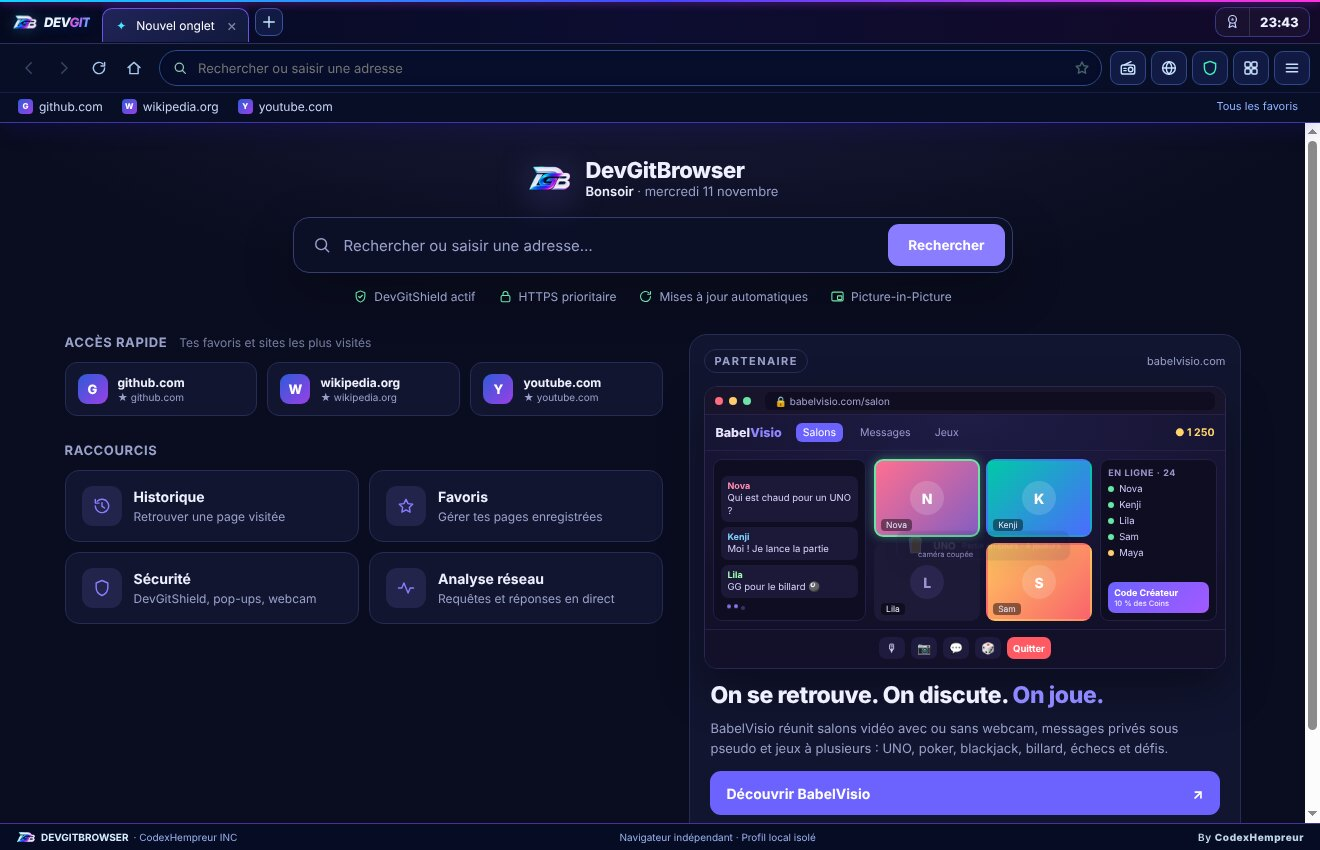
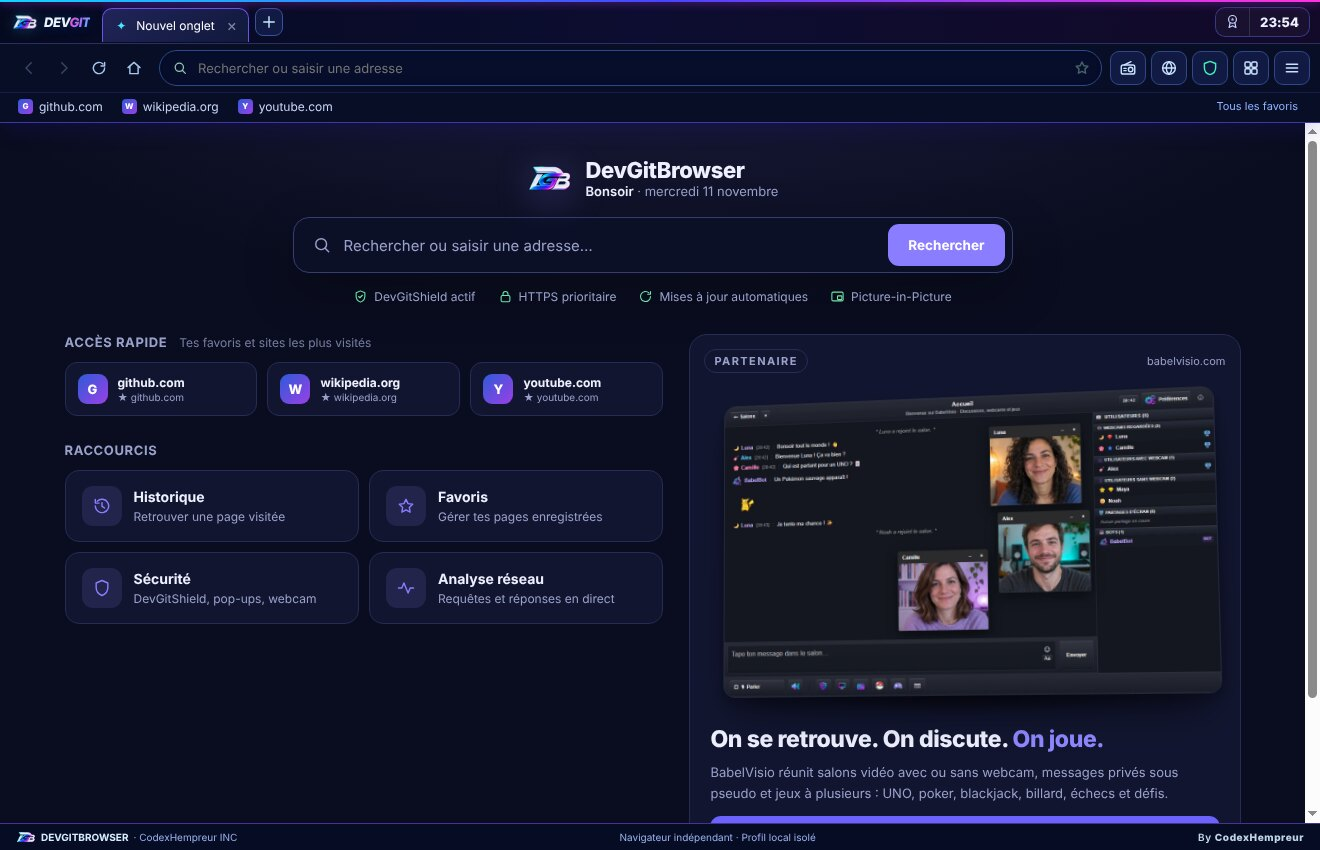
Accueil : capture d'un salon BabelVisio inclinée avec ombre portée
Remplace la maquette CSS par l'image fournie (assets/babelvisio-salon.webp, 76 Ko).

Claude-Session: https://claude.ai/code/session_014xZPsXwDBvUa5jMB2wqmZ4

Changed region(s): [[0.528, 0.4588, 0.9318, 0.9788], [0.9939, 0.7953, 1.0, 0.8565]]

diff --git a/ui/home.css b/ui/home.css
@@ -66,56 +66,20 @@
 .hp-cta{display:flex;justify-content:space-between;align-items:center;width:100%;height:44px;padding:0 16px;border:0;border-radius:11px;background:#6c63ff;color:#fff;font-weight:700;font-size:14px;transition:filter .15s}
 .hp-cta:hover{filter:brightness(1.1)}
 
-/* Maquette animée de l'interface BabelVisio (dessin CSS, aucune vraie personne) */
-.bv-mock{cursor:pointer;border-radius:13px;overflow:hidden;border:1px solid #2b2752;background:#0f0d1f;box-shadow:0 20px 44px rgba(0,0,0,.35);font-family:Inter,'Segoe UI',Arial,sans-serif;color:#e7e4ff;user-select:none}
-.bv-bar{display:flex;align-items:center;gap:6px;height:28px;padding:0 10px;background:#17142c;border-bottom:1px solid #26224a}
-.bv-bar>i{width:8px;height:8px;border-radius:50%;background:#3a3566}.bv-bar>i:nth-child(1){background:#ff6b81}.bv-bar>i:nth-child(2){background:#ffcb6b}.bv-bar>i:nth-child(3){background:#6be3a4}
-.bv-url{margin-left:8px;flex:1;font-size:10px;color:#a9a3d6;background:#0f0d1f;border-radius:6px;padding:3px 9px}
-.bv-app{background:radial-gradient(400px 200px at 50% 0,#6c63ff22,transparent),#13112a}
-.bv-top{display:flex;align-items:center;gap:10px;padding:8px 10px;border-bottom:1px solid #24204a;font-size:10.5px}
-.bv-logo{font-size:12.5px;font-weight:800;margin-right:4px}.bv-logo span{color:#8f87ff}
-.bv-nav{color:#9c96cc;padding:3px 7px;border-radius:6px}.bv-nav.on{background:#6c63ff;color:#fff}
-.bv-coins{margin-left:auto;color:#ffd36b;font-weight:700}
-.bv-body{display:grid;grid-template-columns:1.05fr 1.5fr .8fr;gap:8px;padding:8px;height:178px}
-.bv-chat{display:flex;flex-direction:column;justify-content:flex-end;gap:5px;padding:7px;border-radius:9px;background:#0f0d22;border:1px solid #241f48;overflow:hidden}
-.bv-msg{margin:0;font-size:9.5px;line-height:1.35;color:#d8d4ff;background:#1b1838;border-radius:7px;padding:4px 6px;opacity:0;transform:translateY(6px);animation:bvmsg 12s infinite}
-.bv-msg b{display:block;font-size:9px}.c1{color:#ff8fb3}.c2{color:#7fd3ff}.c3{color:#9dffb0}.c4{color:#ffd36b}
-.bv-msg.m1{animation-delay:0s}.bv-msg.m2{animation-delay:1.2s}.bv-msg.m3{animation-delay:2.6s}.bv-msg.m4{animation-delay:4s}
-@keyframes bvmsg{0%{opacity:0;transform:translateY(6px)}4%,88%{opacity:1;transform:none}96%,100%{opacity:0;transform:none}}
-.bv-typing{margin:0;display:flex;gap:3px;padding:3px 6px}.bv-typing i{width:4px;height:4px;border-radius:50%;background:#8f87ff;animation:bvdot 1.2s infinite}
-.bv-typing i:nth-child(2){animation-delay:.2s}.bv-typing i:nth-child(3){animation-delay:.4s}
-@keyframes bvdot{0%,60%,100%{opacity:.3;transform:none}30%{opacity:1;transform:translateY(-2px)}}
-.bv-stage{position:relative;display:grid;grid-template-columns:1fr 1fr;grid-template-rows:1fr 1fr;gap:6px}
-.bv-cam{position:relative;border-radius:9px;display:grid;place-items:center;overflow:hidden;border:2px solid transparent}
-.bv-cam span{width:34px;height:34px;border-radius:50%;display:grid;place-items:center;font-weight:800;font-size:14px;color:#fff;background:rgba(255,255,255,.16)}
-.bv-cam small{position:absolute;left:5px;bottom:4px;font-size:8.5px;background:rgba(0,0,0,.45);padding:1px 5px;border-radius:4px}
-.bv-cam.k1{background:linear-gradient(135deg,#ff6f91,#845ec2)}.bv-cam.k2{background:linear-gradient(135deg,#00c9a7,#4b6cff)}
-.bv-cam.k3{background:#1d1a37}.bv-cam.k4{background:linear-gradient(135deg,#ffc75f,#f9636b)}
-.bv-cam.off span{background:#2a2650;color:#9c96cc}
-.bv-cam.off:after{content:'caméra coupée';position:absolute;top:5px;right:5px;font-size:7.5px;color:#9c96cc}
-.bv-cam.k1{animation:bvtalk 6s infinite}.bv-cam.k2{animation:bvtalk 6s 2s infinite}.bv-cam.k4{animation:bvtalk 6s 4s infinite}
-@keyframes bvtalk{0%,30%{border-color:#6be3a4;box-shadow:0 0 12px #6be3a466}34%,100%{border-color:transparent;box-shadow:none}}
-.bv-game{position:absolute;left:50%;top:50%;transform:translate(-50%,-50%);display:flex;align-items:center;gap:7px;padding:5px 9px 5px 6px;border-radius:9px;
-  background:#1b1838f2;border:1px solid #3b3570;box-shadow:0 8px 20px rgba(0,0,0,.4);white-space:nowrap;animation:bvgame 9s infinite}
-.bv-game b{font-size:10.5px}.bv-game small{font-size:8.5px;color:#a9a3d6}
-@keyframes bvgame{0%,8%{opacity:0;transform:translate(-50%,-30%) scale(.92)}14%,80%{opacity:1;transform:translate(-50%,-50%)}88%,100%{opacity:0;transform:translate(-50%,-30%) scale(.92)}}
-.bv-cards{position:relative;width:26px;height:20px}
-.bv-cards i{position:absolute;left:8px;top:1px;width:11px;height:17px;border-radius:2px;border:1px solid #fff;transform-origin:50% 100%;animation:bvfan 9s infinite}
-.bv-cards .r{background:#ff5964;--r:-24deg}.bv-cards .b{background:#3f8cff;--r:-8deg}.bv-cards .g{background:#3fcf7a;--r:8deg}.bv-cards .y{background:#ffcd3c;--r:24deg}
-@keyframes bvfan{0%,14%{transform:rotate(0)}22%,80%{transform:rotate(var(--r))}90%,100%{transform:rotate(0)}}
-.bv-users{display:flex;flex-direction:column;gap:5px;padding:7px;border-radius:9px;background:#0f0d22;border:1px solid #241f48;font-size:9.5px;color:#cfcaf8;overflow:hidden}
-.bv-users>b{font-size:9px;color:#9c96cc;text-transform:uppercase;letter-spacing:.6px}
-.bv-users span{display:flex;align-items:center;gap:5px}.bv-users span i{width:6px;height:6px;border-radius:50%;background:#6be3a4}.bv-users span i.away{background:#ffcb6b}
-.bv-creator{margin-top:auto;padding:5px 6px;border-radius:7px;background:linear-gradient(135deg,#6c63ff,#a259ff);color:#fff;font-weight:700;font-size:9px;line-height:1.25}
-.bv-creator small{display:block;font-weight:500;opacity:.85}
-.bv-tools{display:flex;justify-content:center;gap:6px;padding:7px 8px 9px;border-top:1px solid #24204a}
-.bv-tools span{min-width:26px;height:22px;display:grid;place-items:center;padding:0 6px;border-radius:7px;background:#1f1b3f;font-size:11px}
-.bv-tools .bv-leave{background:#ff5964;color:#fff;font-size:9.5px;font-weight:700}
-@media (prefers-reduced-motion:reduce){.bv-msg,.bv-game{animation:none;opacity:1;transform:none}.bv-game{transform:translate(-50%,-50%)}.bv-cam,.bv-cards i,.bv-typing i{animation:none}}
+/* Capture d'un salon BabelVisio : légèrement inclinée, ombre portée en dessous */
+.bv-shot{position:relative;margin:8px 10px 18px;perspective:1400px;cursor:pointer}
+.bv-shot:after{content:'';position:absolute;left:8%;right:8%;bottom:-16px;height:26px;border-radius:50%;
+  background:radial-gradient(closest-side,rgba(0,0,0,.55),transparent);filter:blur(6px);z-index:0;transition:transform .35s ease,opacity .35s ease}
+.bv-shot img{position:relative;z-index:1;display:block;width:100%;height:auto;border-radius:12px;border:1px solid rgba(255,255,255,.08);
+  transform:rotateY(-9deg) rotateX(5deg) rotateZ(-1.5deg);transform-origin:50% 60%;
+  box-shadow:0 22px 40px -14px rgba(0,0,0,.6),0 6px 14px rgba(0,0,0,.25);transition:transform .35s ease,box-shadow .35s ease;user-select:none}
+.bv-shot:hover img{transform:rotateY(-4deg) rotateX(2deg) rotateZ(-.5deg) translateY(-3px);box-shadow:0 30px 50px -16px rgba(0,0,0,.65),0 8px 18px rgba(0,0,0,.25)}
+.bv-shot:hover:after{transform:scaleX(.94);opacity:.8}
+@media (prefers-reduced-motion:reduce){.bv-shot img,.bv-shot:after{transition:none}}
 
 /* ---- Écrans plus étroits */
 @media (max-width:1080px){.hp-grid{grid-template-columns:1fr}.hp-sponsor{max-width:640px;width:100%;margin:0 auto}}
-@media (max-width:640px){.hp-wrap{padding:26px 16px 32px}.hp-shortcuts{grid-template-columns:1fr}.hp-trust{gap:6px 14px}.bv-body{grid-template-columns:1fr 1.4fr}.bv-users{display:none}}
+@media (max-width:640px){.hp-wrap{padding:26px 16px 32px}.hp-shortcuts{grid-template-columns:1fr}.hp-trust{gap:6px 14px}}
 
 /* Bouton des succès (v1.18) : suit le thème comme l'horloge */
 :root[data-theme]:not([data-theme="neon"]) body:not(.x-mode) .status-cluster .trophy-btn{background:var(--t-surface)!important;border-color:var(--t-line)!important;color:var(--t-txt)!important}

diff --git a/ui/index.html b/ui/index.html
@@ -79,33 +79,7 @@
       </div>
       <aside class="hp-sponsor" aria-label="Partenaire : BabelVisio">
         <div class="hp-sponsor-tag"><span>Partenaire</span><em>babelvisio.com</em></div>
-        <div class="bv-mock" aria-hidden="true" data-no-i18n>
-          <div class="bv-bar"><i></i><i></i><i></i><span class="bv-url">🔒 babelvisio.com/salon</span></div>
-          <div class="bv-app">
-            <div class="bv-top"><b class="bv-logo">Babel<span>Visio</span></b><span class="bv-nav on">Salons</span><span class="bv-nav">Messages</span><span class="bv-nav">Jeux</span><span class="bv-coins">● 1 250</span></div>
-            <div class="bv-body">
-              <div class="bv-chat">
-                <p class="bv-msg m1"><b class="c1">Nova</b> Qui est chaud pour un UNO ?</p>
-                <p class="bv-msg m2"><b class="c2">Kenji</b> Moi ! Je lance la partie</p>
-                <p class="bv-msg m3"><b class="c3">Lila</b> GG pour le billard 🎱</p>
-                <p class="bv-typing"><i></i><i></i><i></i></p>
-              </div>
-              <div class="bv-stage">
-                <div class="bv-cam k1"><span>N</span><small>Nova</small></div>
-                <div class="bv-cam k2"><span>K</span><small>Kenji</small></div>
-                <div class="bv-cam k3 off"><span>L</span><small>Lila</small></div>
-                <div class="bv-cam k4"><span>S</span><small>Sam</small></div>
-                <div class="bv-game"><div class="bv-cards"><i class="r"></i><i class="b"></i><i class="g"></i><i class="y"></i></div><b>UNO</b><small>Partie en cours · 4 joueurs</small></div>
-              </div>
-              <div class="bv-users">
-                <b>En ligne · 24</b>
-                <span><i></i>Nova</span><span><i></i>Kenji</span><span><i></i>Lila</span><span><i></i>Sam</span><span><i class="away"></i>Maya</span>
-                <div class="bv-creator">Code Créateur<small>10 % des Coins</small></div>
-              </div>
-            </div>
-            <div class="bv-tools"><span>🎙</span><span>📷</span><span>💬</span><span>🎲</span><span class="bv-leave">Quitter</span></div>
-          </div>
-        </div>
+        <div class="bv-shot"><img src="../assets/babelvisio-salon.webp" alt="Aperçu d’un salon BabelVisio : discussion, webcams et liste des utilisateurs" width="1200" height="720" draggable="false"></div>
         <div class="hp-sponsor-text">
           <h2>On se retrouve. On discute. <span>On joue.</span></h2>
           <p>BabelVisio réunit salons vidéo avec ou sans webcam, messages privés sous pseudo et jeux à plusieurs : UNO, poker, blackjack, billard, échecs et défis.</p>

diff --git a/tests/v118.test.js b/tests/v118.test.js
@@ -138,9 +138,9 @@ test('interface 1.18 : accueil, bouton des succès, plus de prompt()',()=>{
   assert.match(html,/<div class="status-cluster">\s*<button id="trophy-btn"[^>]*><svg class="trophy-ico"/,'icône neutre collée à l’heure');
   assert.ok(!html.includes('🏆</span>'));
   for(const id of ['start-search','start-address','open-babel','home-sites','home-sites-section','card-history','card-bookmarks','card-security','card-network','hp-greet'])assert.ok(html.includes(`id="${id}"`),id);
-  assert.match(html,/href="home\.css"/);assert.match(html,/class="bv-mock" aria-hidden="true" data-no-i18n/);
-  assert.ok(!/<img[^>]+bv-/.test(html),'maquette dessinée en CSS, sans photo');
-  assert.match(css,/prefers-reduced-motion:reduce\)\{\.bv-msg/);
+  assert.match(html,/href="home\.css"/);assert.match(html,/<div class="bv-shot"><img src="\.\.\/assets\/babelvisio-salon\.webp" alt="[^"]+"/);
+  assert.ok(fs.statSync(path.join(root,'assets','babelvisio-salon.webp')).size<200_000,'image légère');
+  assert.match(css,/\.bv-shot img\{[^}]*transform:rotateY\(-9deg\)/);assert.match(css,/\.bv-shot:after\{/);
   // les anciennes classes de l'accueil ne sont plus dans les feuilles de style
   for(const f of ['ui/style.css','ui/themes.css'])for(const c of ['.intro-panel','.promo-babel','.quick-item','.hero-hologram'])assert.ok(!read(f).includes(c),f+' '+c);
   const en=JSON.parse(read('i18n/en.json'));for(const k of ['Bonsoir','Raccourcis','Découvrir BabelVisio','Terminer la discussion','Discussion terminée'])assert.ok(en[k],k);

diff --git a/ui/renderer.js b/ui/renderer.js
@@ -486,7 +486,7 @@ $('card-security').addEventListener('click',()=>showPanel('security'));
 $('address-form').addEventListener('submit',ev=>{ev.preventDefault();submitNavigation($('address').value);});
 $('start-search').addEventListener('submit',ev=>{ev.preventDefault();submitNavigation($('start-address').value);});
 $('open-babel').addEventListener('click',()=>submitNavigation('https://www.BabelVisio.com'));
-document.querySelector('.bv-mock')?.addEventListener('click',()=>submitNavigation('https://www.BabelVisio.com'));
+document.querySelector('.bv-shot')?.addEventListener('click',()=>submitNavigation('https://www.BabelVisio.com'));
 // Suggestions : favoris puis historique (liste native affichée au-dessus des pages).
 function suggest(input){
   clearTimeout(suggestTimer);

diff --git a/CHANGELOG.md b/CHANGELOG.md
@@ -3,7 +3,7 @@
 ### 🏠 Nouvelle page d'accueil
 - Mise en page plus sobre et plus professionnelle : recherche au centre, salutation et date du jour, protections actives, accès rapide à tes sites et raccourcis avec des icônes nettes.
 - Les couleurs suivent le thème choisi (Néon, Noir, Blanc, Nature, Sable, Océan, Velours).
-- **Partenaire BabelVisio** : une maquette animée de son interface montre ce que propose le site (salons vidéo avec ou sans webcam, discussion, liste des connectés, parties de UNO, Code Créateur). Elle est dessinée entièrement en CSS, sans photo de vraies personnes, et respecte le réglage « réduire les animations » de Windows.
+- **Partenaire BabelVisio** : une capture d'un salon BabelVisio (discussion, webcams, liste des utilisateurs), légèrement inclinée avec une ombre portée, présente le site ; un clic dessus ouvre BabelVisio.
 
 ### 💬 Support en direct
 - Après un **🐞 Signaler un bug**, si l'équipe prend ton signalement en charge, une **fenêtre de discussion s'ouvre automatiquement** pour échanger avec toi en direct, avec une notification Windows quand une réponse arrive.
